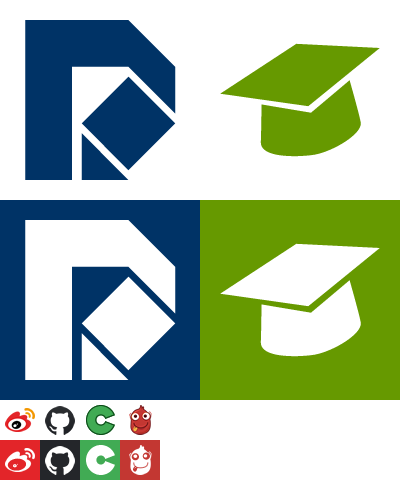
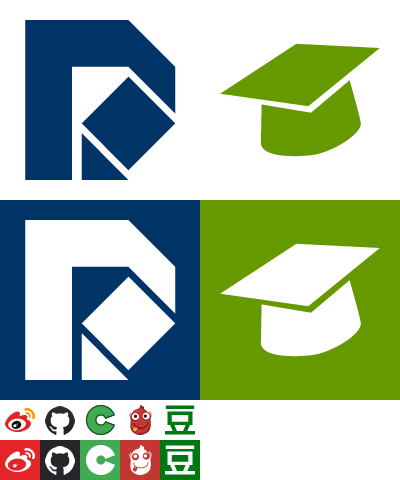
增加豆瓣

Changed region(s): [[0.39, 0.8438, 0.51, 1.0]]

diff --git a/css/styles.css b/css/styles.css
@@ -58,7 +58,7 @@ a {
 	height: 40px;
 	background-image: url(../images/bg.png);
 	background-repeat: no-repeat;
-	margin: 5px 20px;
+	margin: 5px 11px;
 	float: left;
 }
 .sina_link {
@@ -84,6 +84,12 @@ a {
 }
 .gitosc_link:hover {
 	background-position: -120px -440px;
+}
+.douban_link {
+	background-position: -160px -400px;
+}
+.douban_link:hover {
+	background-position: -160px -440px;
 }
 .foot {
 	border-top: 1px solid #ccc;

diff --git a/index.html b/index.html
@@ -17,6 +17,7 @@
 		<a href="http://github.com/piscdong/" class="github_link" title="GitHub"></a>
 		<a href="http://my.oschina.net/piscdong/" class="oschina_link" title="开源中国"></a>
 		<a href="http://git.oschina.net/u/piscdong/" class="gitosc_link" title="GIt @ OSC"></a>
+		<a href="http://www.douban.com/people/piscdong/" class="douban_link" title="豆瓣"></a>
 	</div>
 </div>
 <div class="foot">
